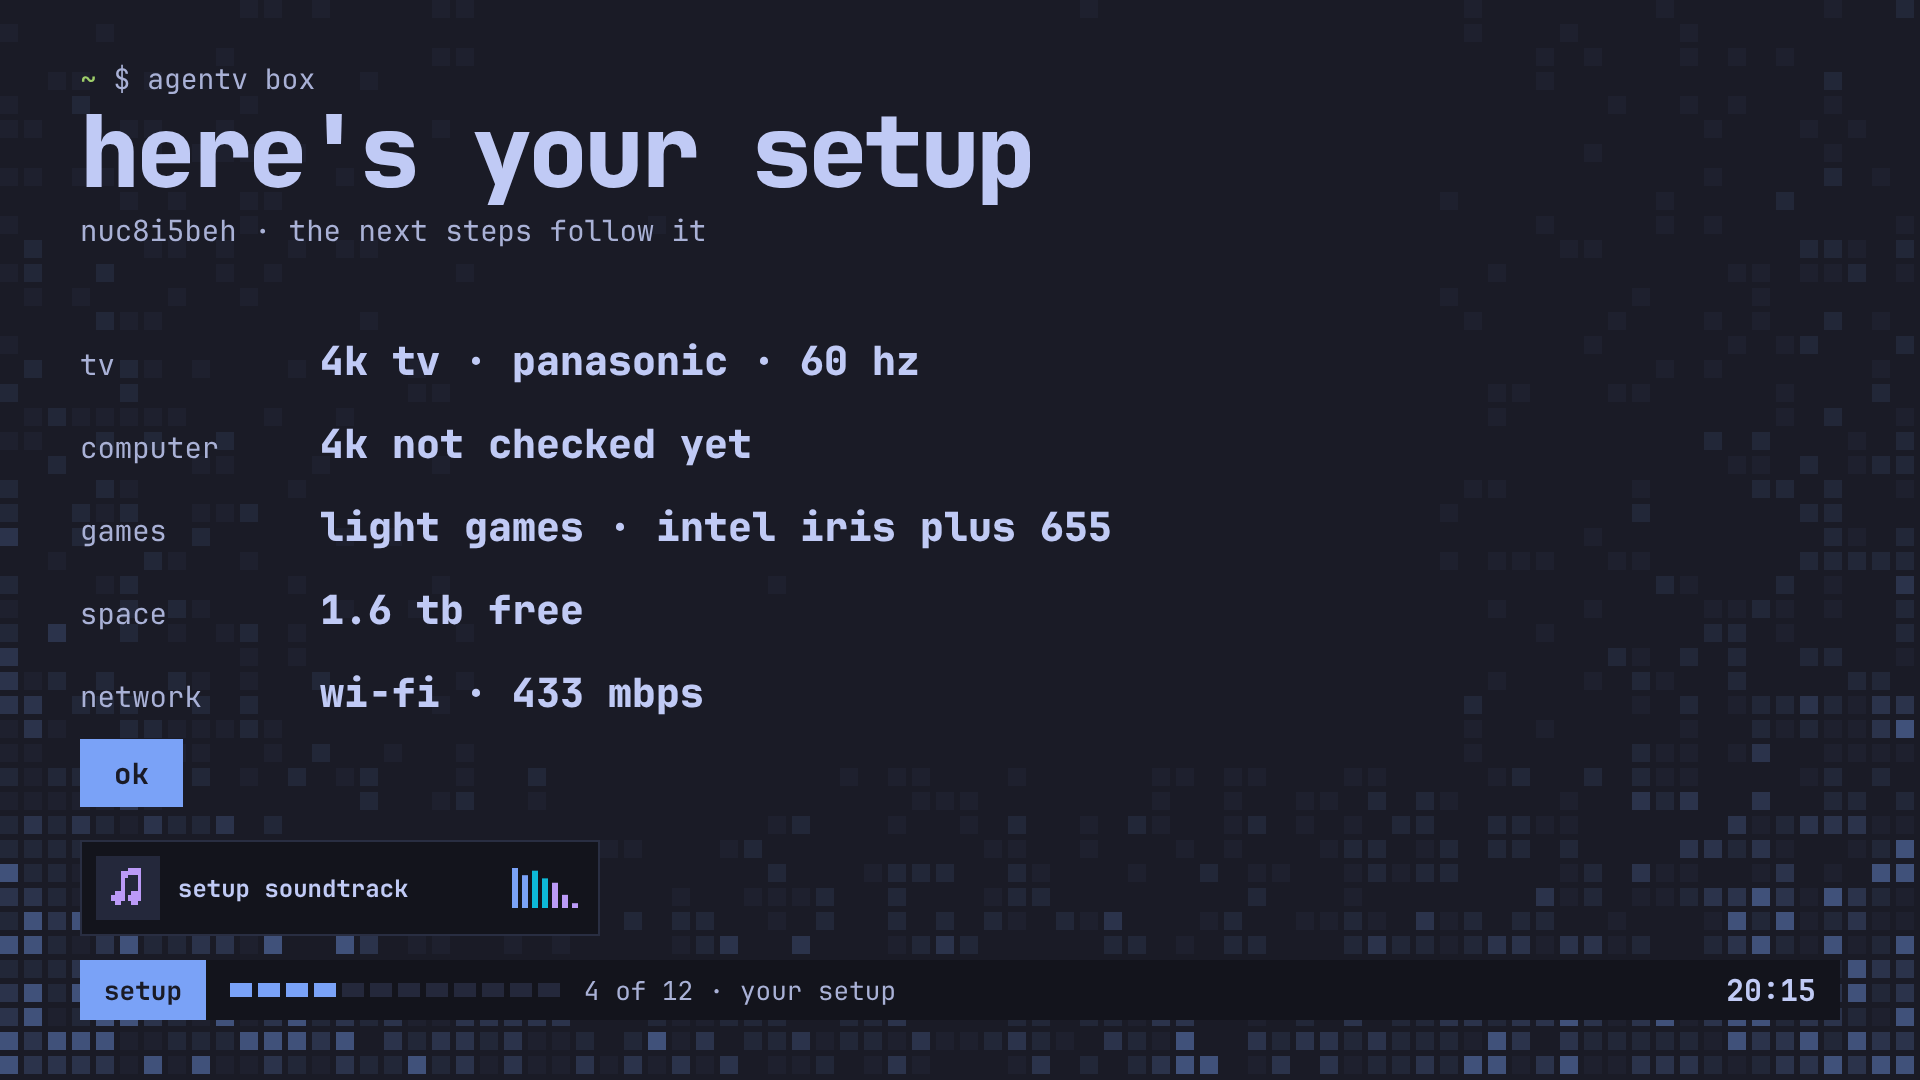
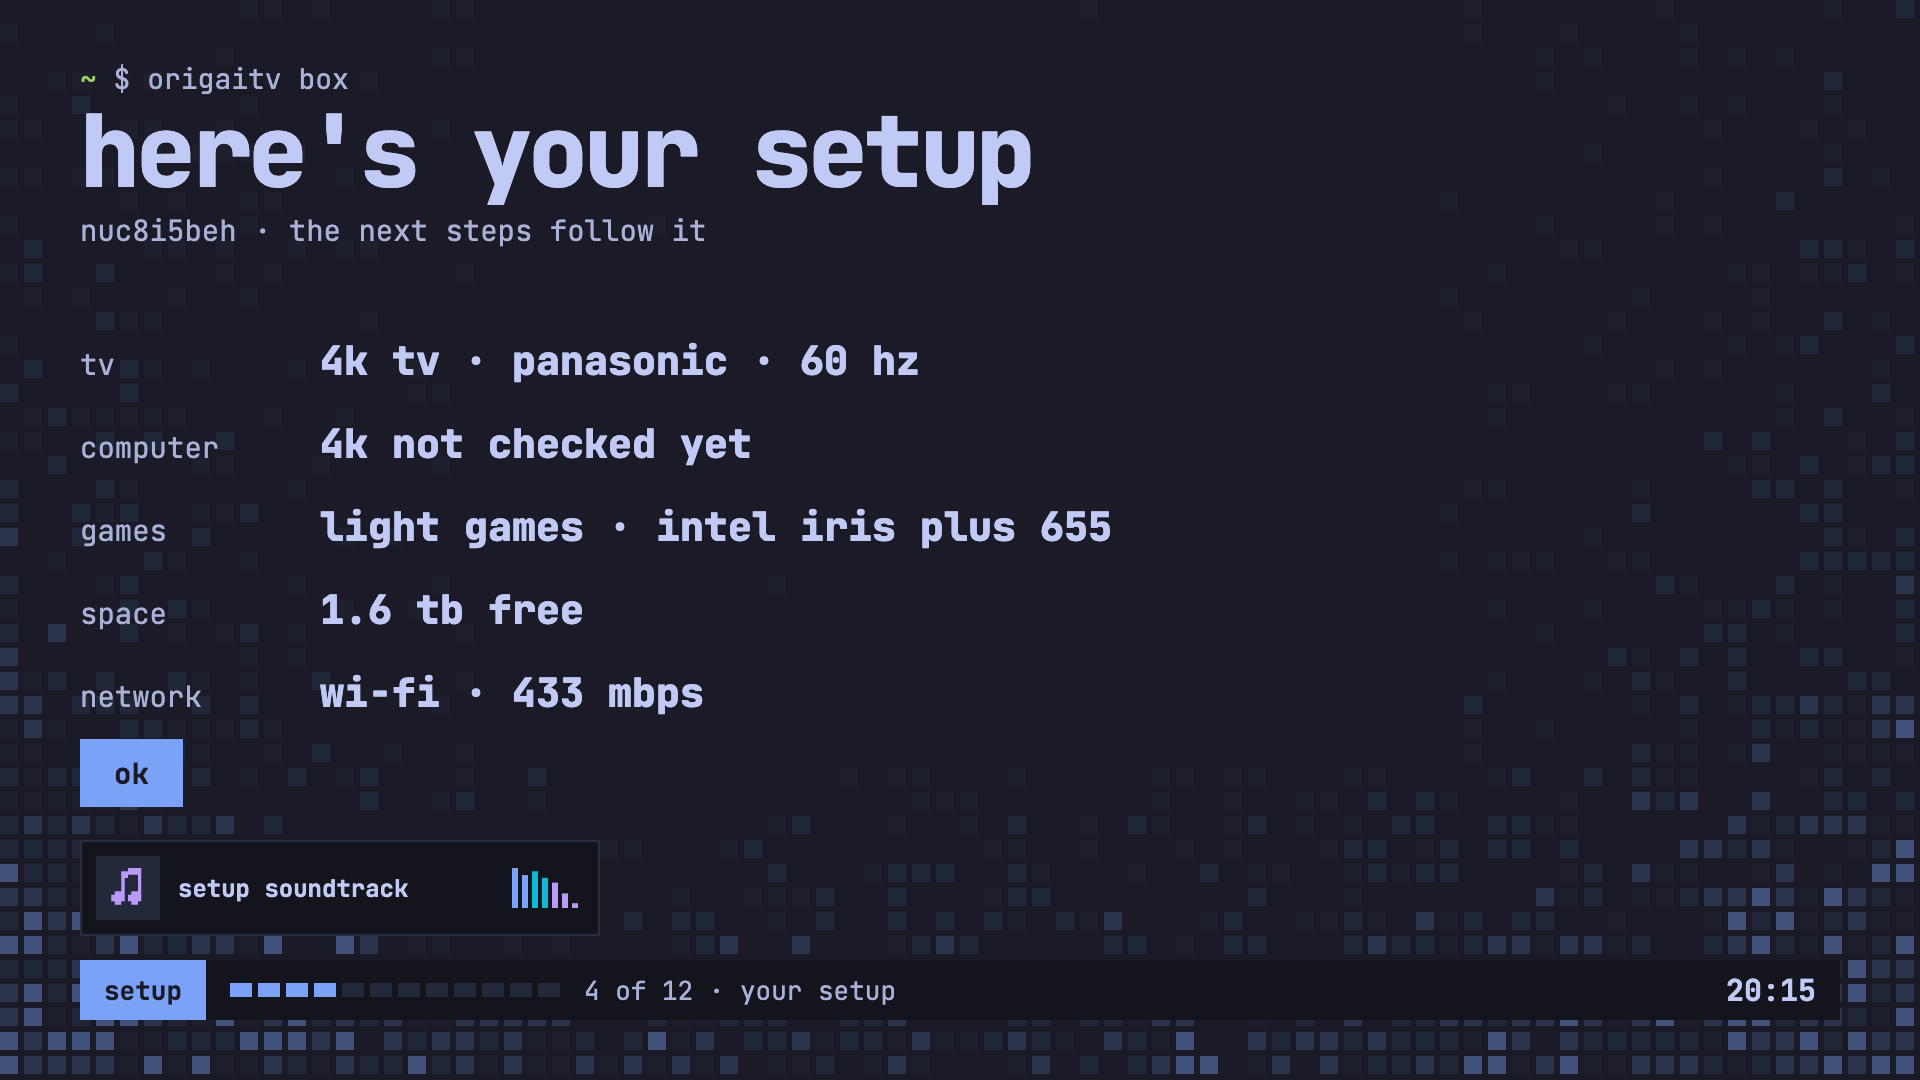
Say in the README that origaiTV used to be called AgenTV
One line under the tagline, so someone who knew the old name knows where
they are. The setup picture is taken again, since its prompt said the old
command, and the credit no longer says the logo uses Omarchy's letters.

diff --git a/.github/README.md b/.github/README.md
@@ -11,6 +11,10 @@
 </p>
 
 <p align="center">
+  <sub>origaiTV used to be called AgenTV. Same project, new name.</sub>
+</p>
+
+<p align="center">
   <a href="#install-it">Install it</a> · <a href="#what-you-get">What you get</a> · <a href="#questions">Questions</a>
 </p>
 
@@ -206,7 +210,7 @@ This repo is a fork of [omacom/omarchy](https://github.com/omacom/omarchy) that 
 
 Omarchy is made by David Heinemeier Hansson and its contributors. It's MIT-licensed, and its [licence](../LICENSE) stays as it is. origaiTV's additions are copyright Radomir Drndarski and use the same licence, with two exceptions. The [menu sounds](../launcher/sounds/LICENSE) and the [setup music](../setup/audio/LICENSE) are all rights reserved and ship only with origaiTV. The fonts keep their own [open licence](../launcher/fonts/OFL.txt). origaiTV isn't made or endorsed by the Omarchy project.
 
-The origaiTV wordmark is drawn in the letters of Omarchy's logo, as a thank-you, and its "a" is Omarchy's own.
+The origaiTV logo is drawn in pixels, the way Omarchy's is, as a thank-you.
 
 The films in the pictures are the Blender Foundation's open movies ([studio.blender.org](https://studio.blender.org), CC BY).
 
